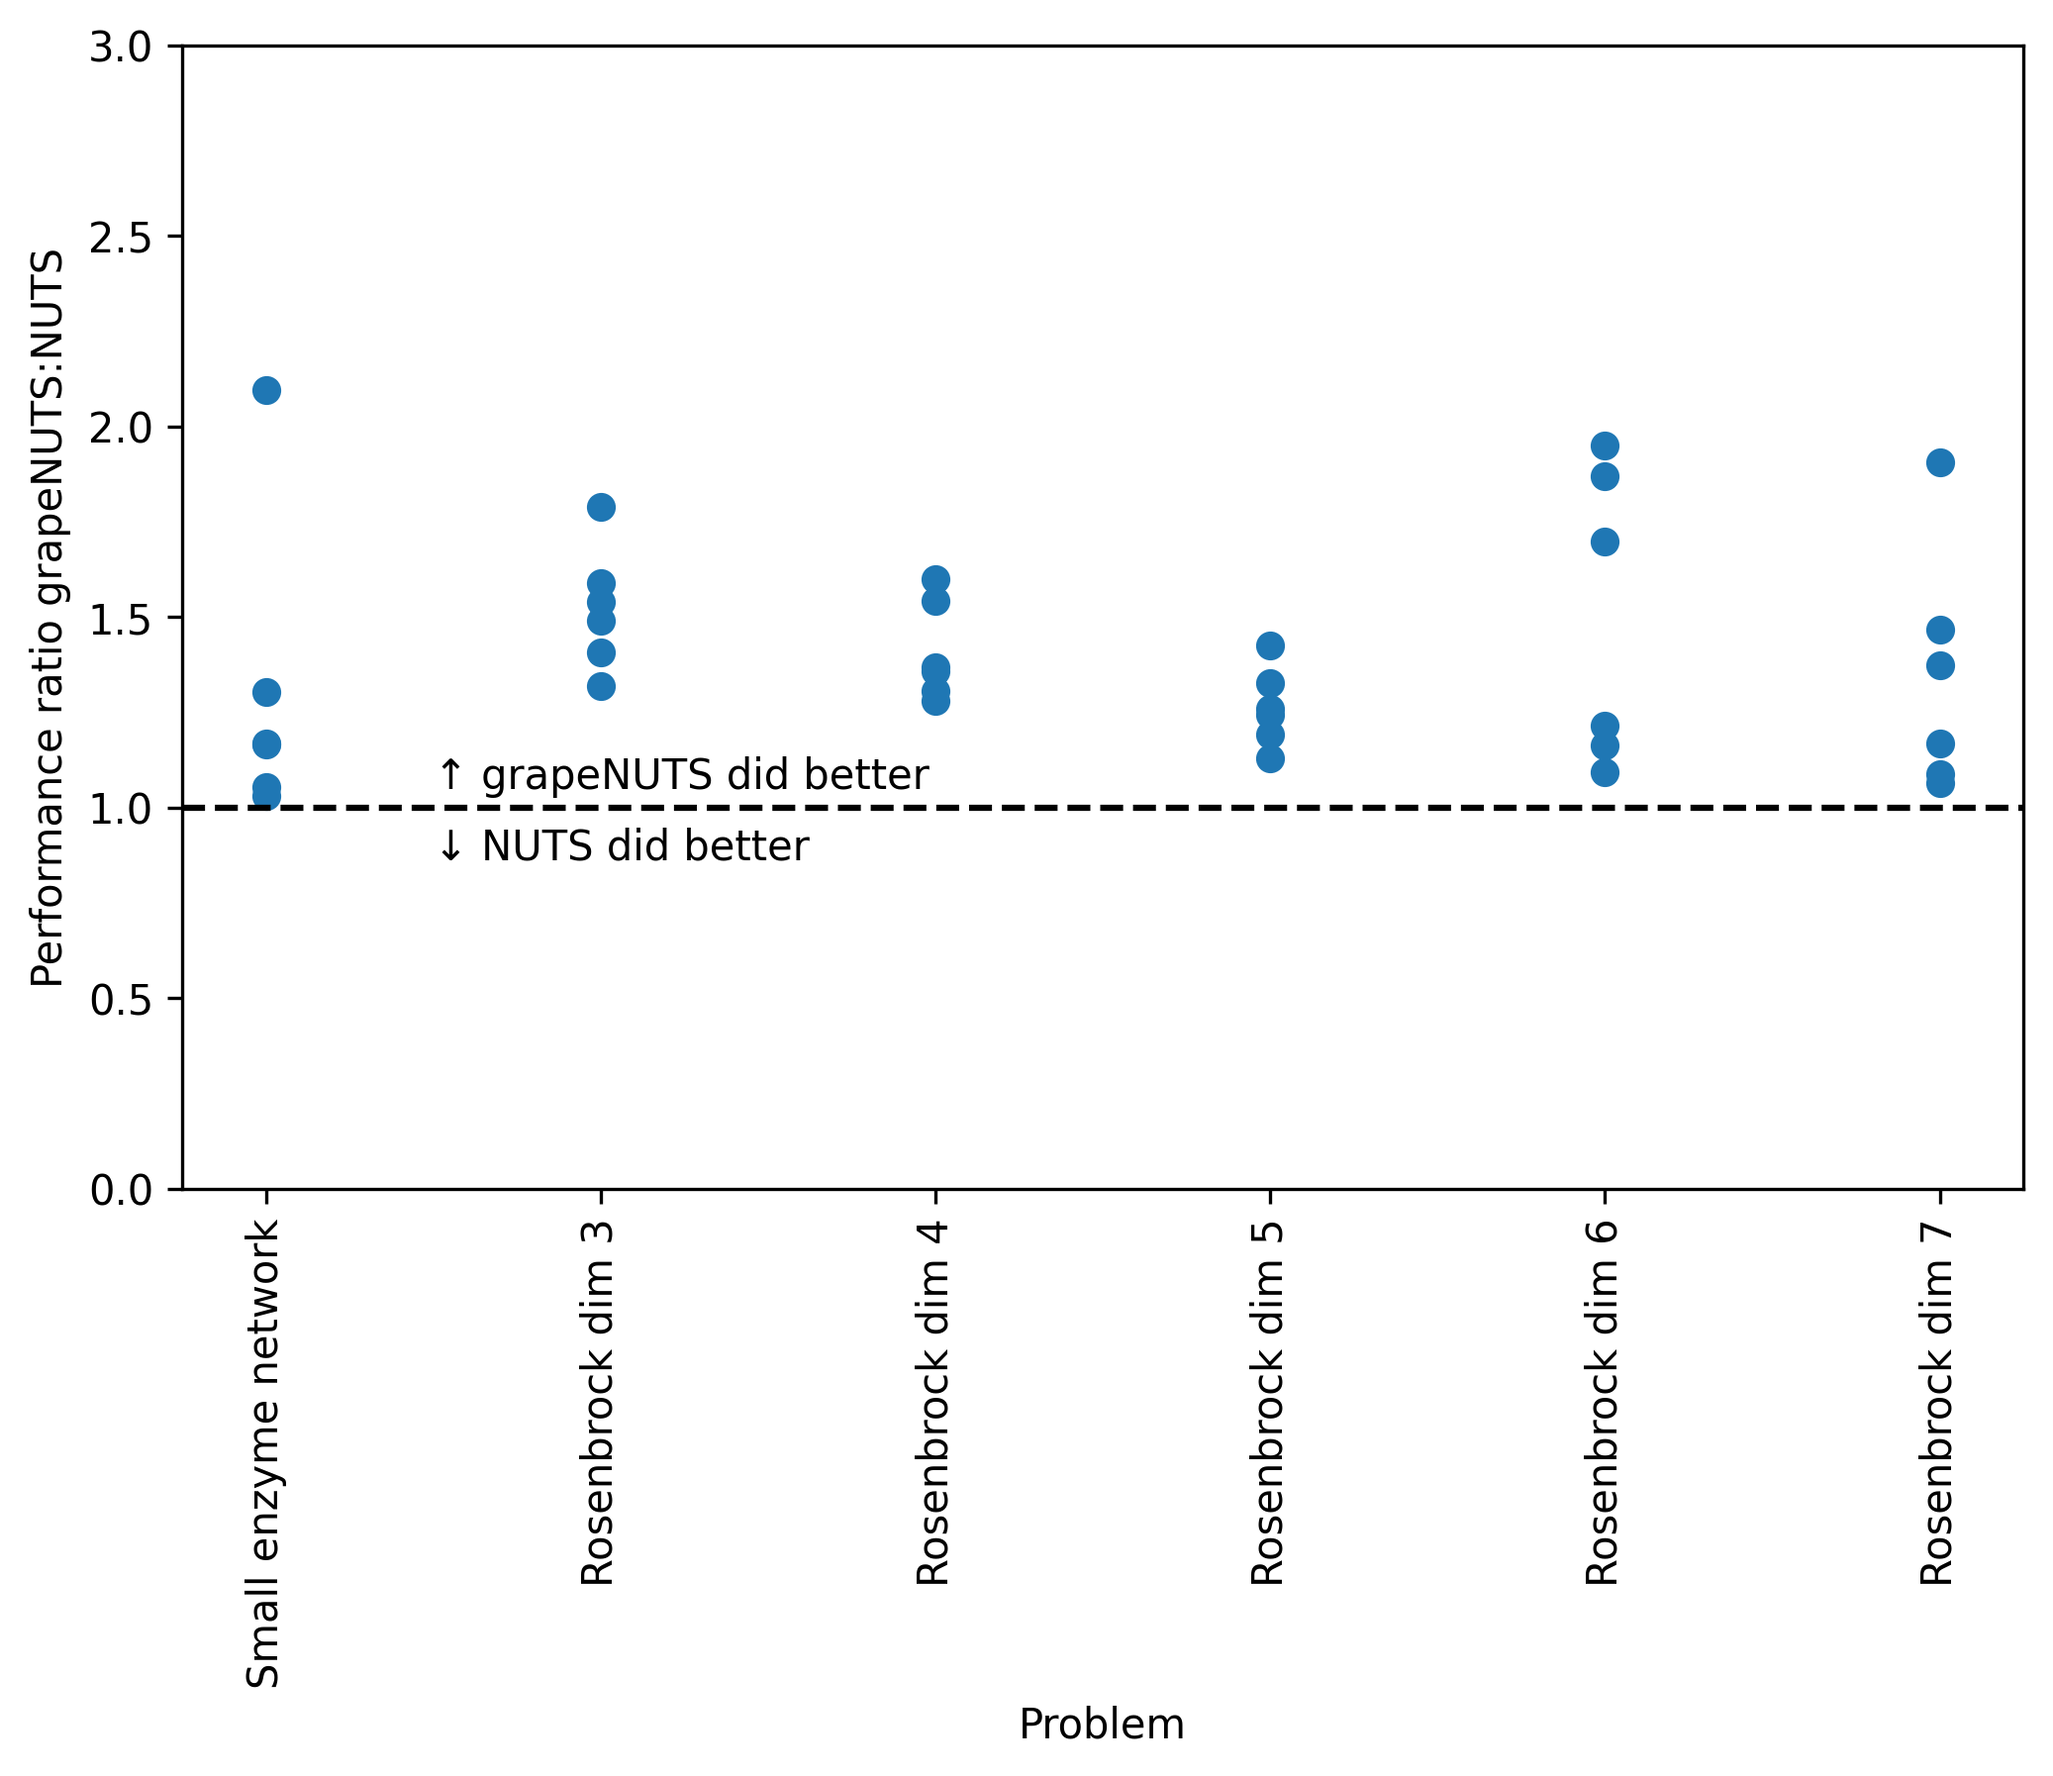
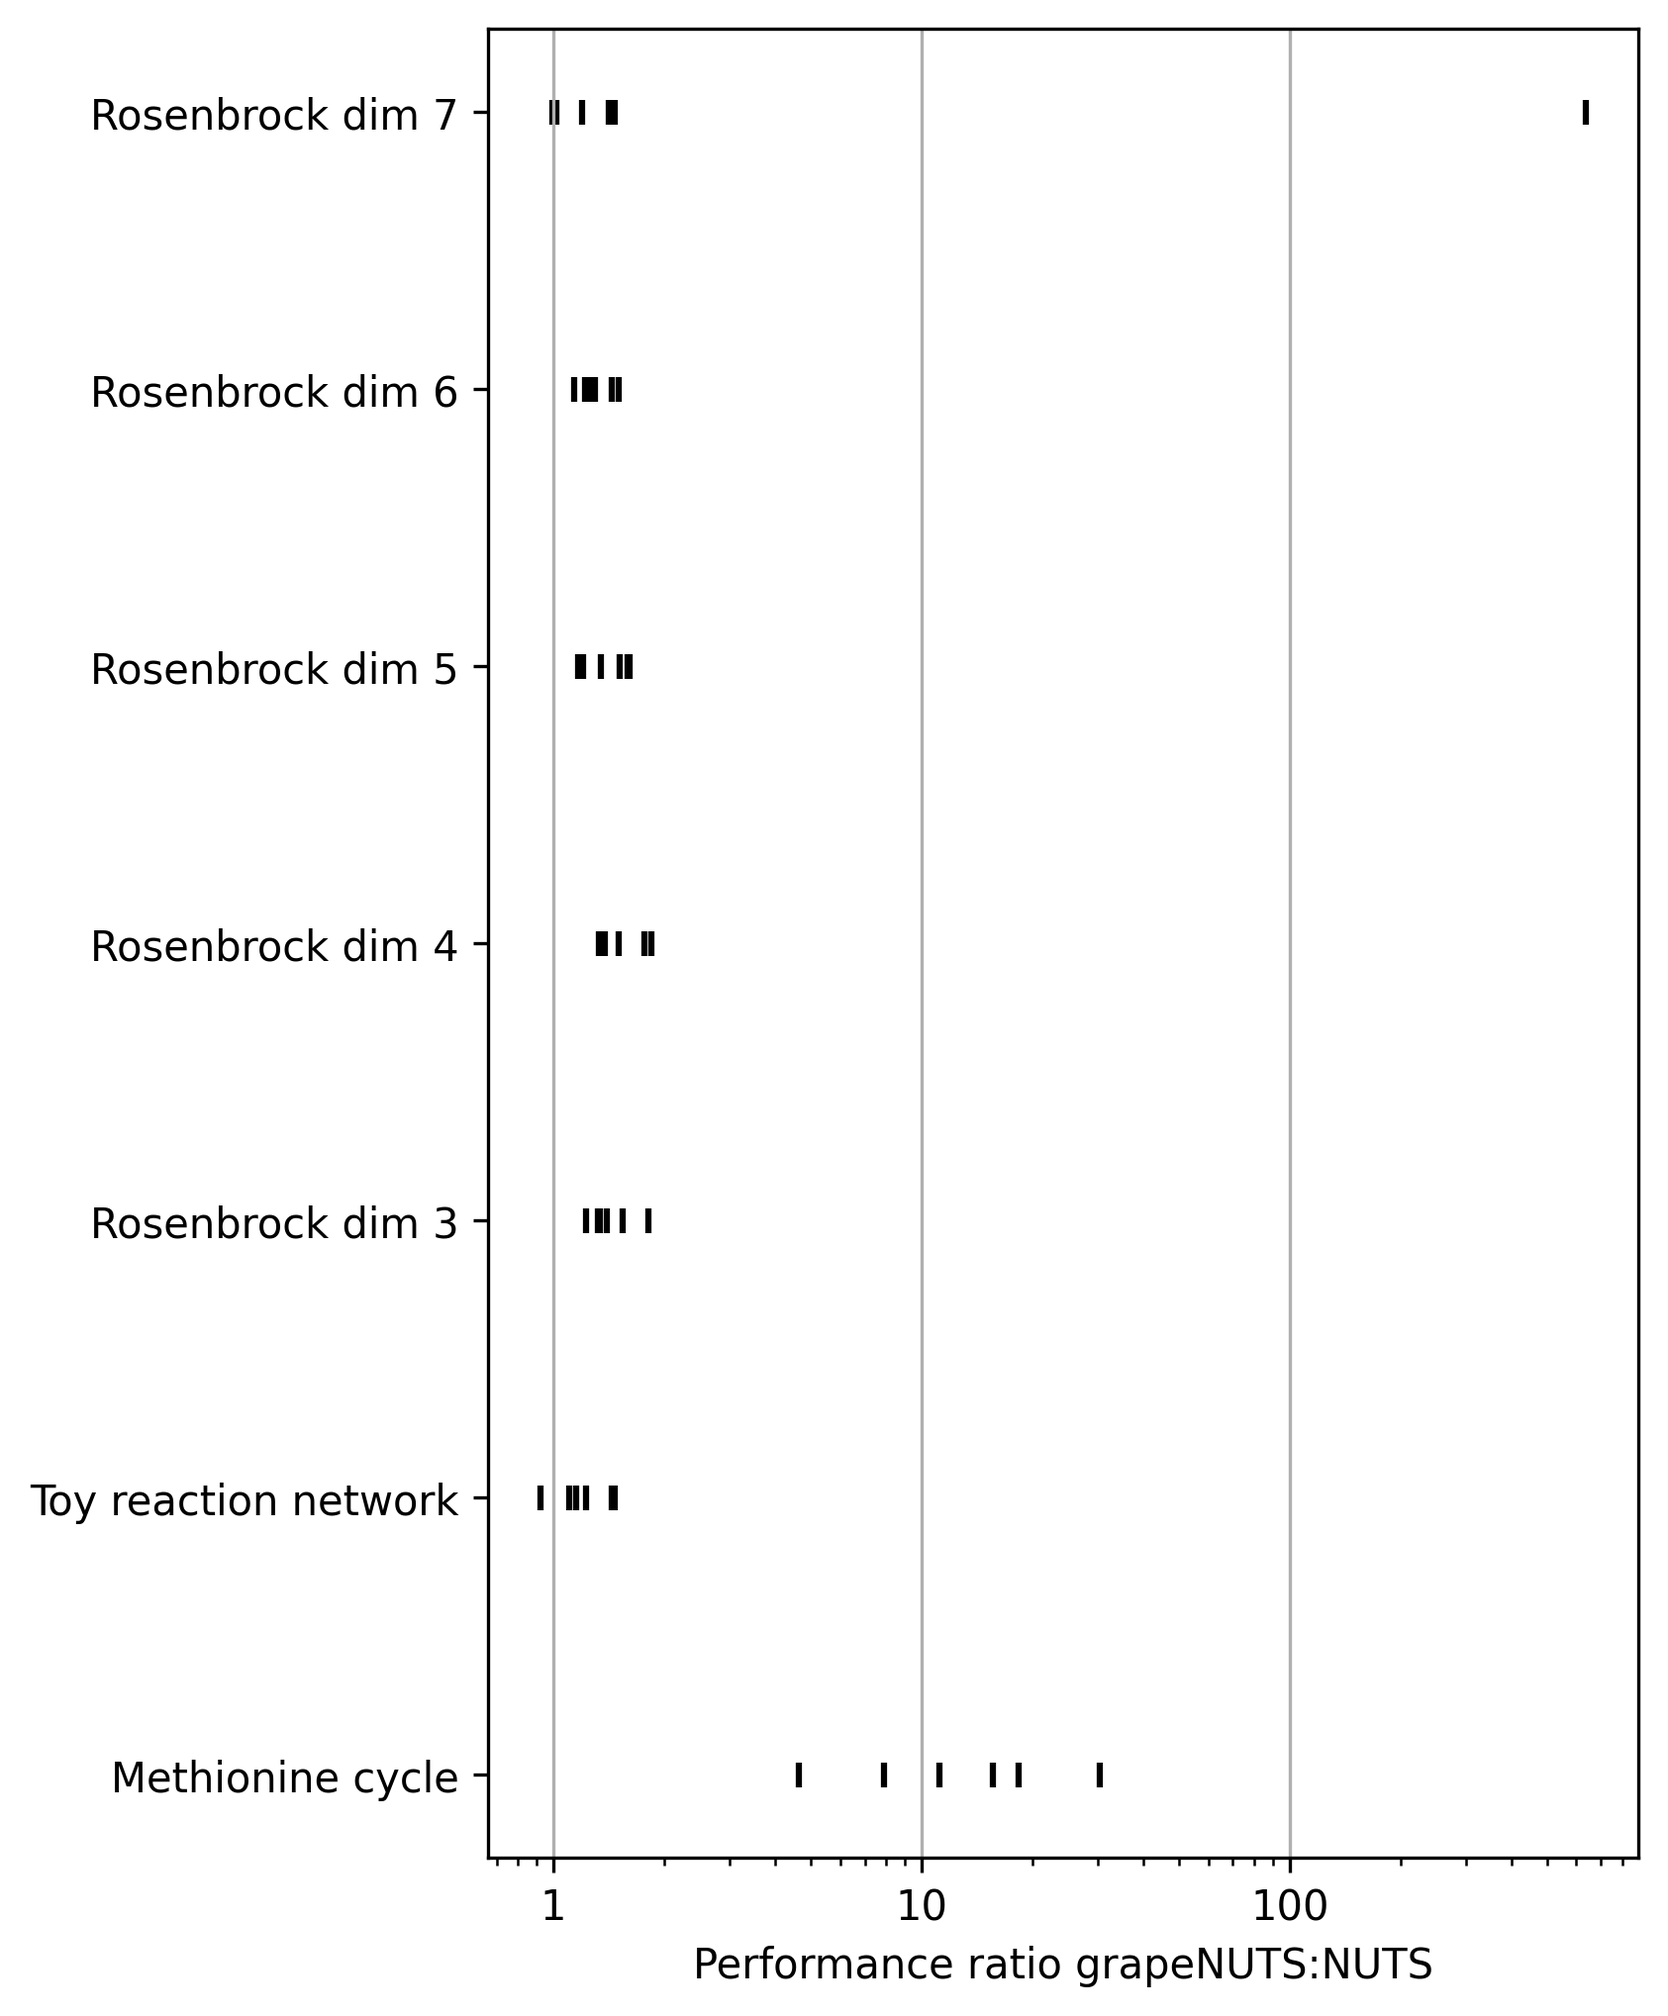
improve benchmarks

diff --git a/benchmarks/analyse_results.py b/benchmarks/analyse_results.py
@@ -1,10 +1,12 @@
 from pathlib import Path
-from matplotlib import pyplot as plt
-from matplotlib.legend_handler import HandlerPatch
-import matplotlib.patches as mpatches
+
 import matplotlib
+import matplotlib.patches as mpatches
 import numpy as np
 import polars as pl
+from matplotlib import pyplot as plt
+from matplotlib import ticker
+from matplotlib.legend_handler import HandlerPatch
 
 HERE = Path(__file__).parent
 CSV_FILE_METHIONINE = HERE / "methionine.csv"
@@ -77,26 +79,35 @@ def mm_fig(results_df: pl.DataFrame):
 
 
 def performance_fig(results: pl.DataFrame):
-    f, ax = plt.subplots(figsize=[8, 5])
-    ax.set_ylim(ymin=0.0, ymax=3.0)
+    f, ax = plt.subplots(figsize=[5, 8])
 
-    models = results.group_by(["dim"]).agg(pl.col("model").first()).sort("dim")
-    model_names = [models["model"].to_list()[0]] + [
-        f"{m} dim {d}" for d, m in models.iter_rows() if m == "Rosenbrock"
+    models = (
+        results[["model", "dim"]]
+        .group_by(["model", "dim"])
+        .first()
+        .sort(["dim", "model"])
+    )
+    model_names = [
+        f"{m} dim {d}" if m == "Rosenbrock" else m for m, d in models.iter_rows()
     ]
     models = models.with_columns(
-        xtick_loc=np.linspace(*ax.get_xlim(), len(model_names))  # type: ignore
+        ytick_loc=np.linspace(*ax.get_ylim(), len(model_names))  # type: ignore
     )
     results = results.join(models, on=["model", "dim"])
-    ax.scatter(results["xtick_loc"], results["perf_ratio"])
-    ax.axhline(1.0, linestyle="--", color="black", label="y=1")
-    ax.text(0.1, 1.05, "↑ grapeNUTS did better")
-    ax.text(0.1, 0.95, "↓ NUTS did better", verticalalignment="top")
-    ax.set_xticks(models["xtick_loc"], model_names, rotation=90)
-    ax.set(
-        xlabel="Problem",
-        ylabel="Performance ratio grapeNUTS:NUTS",
+    ax.scatter(
+        results["perf_ratio"],
+        results["ytick_loc"],
+        color="black",
+        marker="|",
     )
+    # ax.axvline(1.0, linestyle="--", color="gray")
+    ax.grid(visible=True, which="major", axis="x")
+    ax.set_yticks(models["ytick_loc"], model_names)
+    ax.set(
+        xlabel="Performance ratio grapeNUTS:NUTS",
+    )
+    ax.semilogx()
+    ax.xaxis.set_major_formatter(ticker.ScalarFormatter())
     return f, ax
 
 
@@ -171,20 +182,20 @@ def trajectory_fig(result: pl.DataFrame):
 def main():
     matplotlib.rcParams["savefig.dpi"] = 300
     df_methionine = pl.read_csv(CSV_FILE_METHIONINE).with_columns(
-        model=pl.lit("Methionine"), dim=0
+        model=pl.lit("Methionine cycle"), dim=0
     )
     df_rb = pl.read_csv(CSV_FILE_ROSENBROCK).with_columns(model=pl.lit("Rosenbrock"))
     df_linear = pl.read_csv(CSV_FILE_LINEAR).with_columns(
-        model=pl.lit("Small enzyme network"), dim=0
+        model=pl.lit("Toy reaction network"), dim=0
     )
     df_trajectory = pl.read_csv(CSV_FILE_TRAJECTORY)
-    df_performance = pl.concat([df_methionine, df_rb, df_linear], how="align")
+    df_performance = pl.concat([df_linear, df_methionine, df_rb], how="align")
 
     f, _ = performance_fig(df_performance)
-    f.savefig(HERE / "performance.png", bbox_inches="tight")
+    f.savefig(HERE / "performance.png", bbox_inches="tight", dpi=300)
 
     f, _ = trajectory_fig(df_trajectory)
-    f.savefig(HERE / "trajectory.png", bbox_inches="tight")
+    f.savefig(HERE / "trajectory.png", bbox_inches="tight", dpi=300)
 
 
 if __name__ == "__main__":

diff --git a/benchmarks/trajectory.py b/benchmarks/trajectory.py
@@ -23,7 +23,7 @@ from grapevine.integrator import (
     GrapevineIntegratorState,
 )
 from grapevine import run_grapenuts
-from grapevine.example_functions import rosenbrock2d
+from grapevine.example_functions import rosenbrock2dmult
 
 SEED = 1234
 N_WARMUP = 1000
@@ -56,7 +56,7 @@ def camel(x: jax.Array, args: jax.Array) -> Scalar:
 
 def posterior_logdensity(params, guess):
     sol = optx.minimise(
-        rosenbrock2d,
+        rosenbrock2dmult,
         solver,
         guess,
         args=params,
@@ -118,14 +118,14 @@ def test_trajectory(initial_position):
     steps = []
     for state in states:
         sol_gn = optx.minimise(
-            rosenbrock2d,
+            rosenbrock2dmult,
             solver,
             guess,
             args=state.position,
             max_steps=int(1e6),
         )
         sol_nuts = optx.minimise(
-            rosenbrock2d,
+            rosenbrock2dmult,
             solver,
             DEFAULT_GUESS,
             args=state.position,

diff --git a/benchmarks/methionine.py b/benchmarks/methionine.py
@@ -34,11 +34,11 @@ jax.config.update("jax_enable_x64", True)
 SEED = 1234
 PARAM_SD = 0.01
 HERE = Path(__file__).parent
-CSV_OUTPUT_FILE = HERE / "methionine_pathway.csv"
+CSV_OUTPUT_FILE = HERE / "methionine.csv"
 DEFAULT_GUESS = jnp.full((5,), 0.01)
-N_WARMUP = 5
-N_SAMPLE = 5
-N_TEST = 2
+N_WARMUP = 200
+N_SAMPLE = 100
+N_TEST = 6
 INIT_STEPSIZE = 0.0001
 MAX_TREEDEPTH = 10
 TARGET_ACCEPT = 0.95
@@ -225,12 +225,12 @@ def run_comparison(n_test: int):
     keys = jax.random.split(key, n_test)
     results = []
     for i, keyi in enumerate(keys):
+        print(f"Starting methionine rep {i}...")
         compare_key, param_key = jax.random.split(keyi)
         params = generate_random_params(param_key, TRUE_PARAMS, PARAM_SD)
         result = compare_single(compare_key, params)
         result["rep"] = i
         results.append(result)
-        print(results)
     return pl.from_records(results)
 
 

diff --git a/benchmarks/linear.py b/benchmarks/linear.py
@@ -36,7 +36,7 @@ SEED = 1234
 ERROR_SD = 0.05
 PARAM_SD = 0.02
 HERE = Path(__file__).parent
-CSV_OUTPUT_FILE = HERE / "linear_pathway.csv"
+CSV_OUTPUT_FILE = HERE / "linear.csv"
 TRUE_PARAMS = OrderedDict(
     log_km=jnp.array([2.0, 2.0]),
     log_vmax=jnp.array(3.0),
